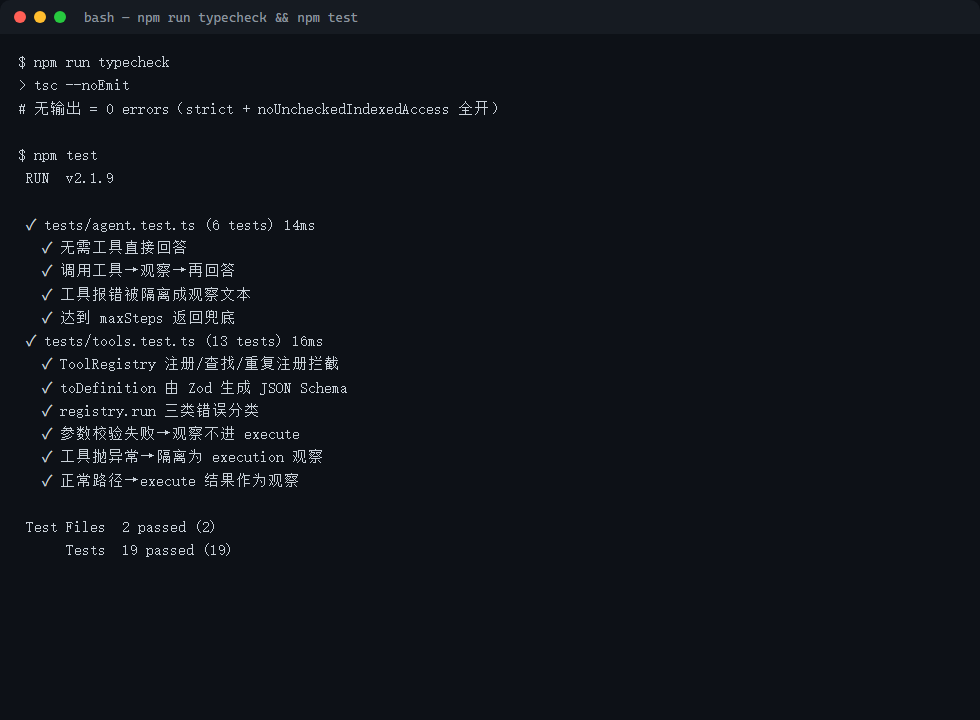
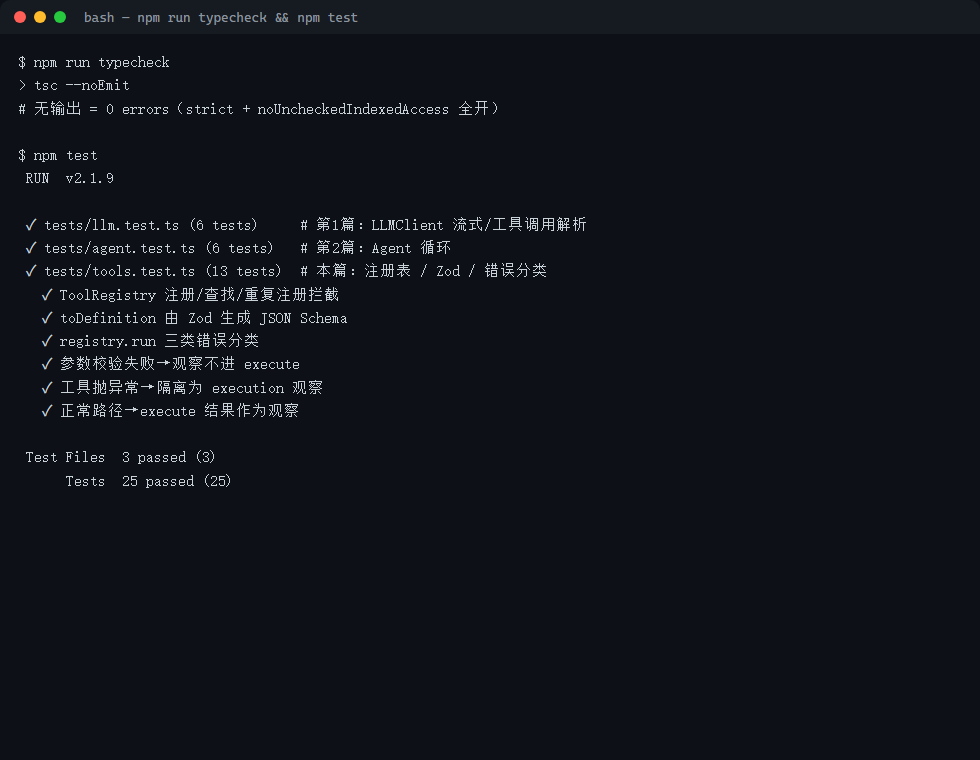
post-03: 修正博文验证计数（25 tests / 3 files）并同步验证配图

diff --git a/posts/03.md b/posts/03.md
@@ -319,7 +319,7 @@ npm run typecheck
 
 ![验证结果](assets/03-verify.png)
 
-1. **单元测试 19/19 通过**（`npm test`，2 个文件共 19 用例）。新增 `tests/tools.test.ts` 覆盖：注册表登记/查找/重复拦截、Zod→JSON Schema 转换（含 enum/array/optional/required）、`registry.run` 三类错误分类（not_found / validation / execution）、参数不合法时 `execute` 不被调用、工具抛异常被隔离。这一组证明工具系统逻辑正确，不依赖真实网络。
+1. **单元测试 25/25 通过**（`npm test`，3 个文件共 25 用例：第 1 篇 `llm.test.ts` 6 例、第 2 篇 `agent.test.ts` 6 例、本篇新增 `tools.test.ts` 13 例）。新增的 `tools.test.ts` 覆盖：注册表登记/查找/重复拦截、Zod→JSON Schema 转换（含 enum/array/optional/required）、`registry.run` 三类错误分类（not_found / validation / execution）、参数不合法时 `execute` 不被调用、工具抛异常被隔离。这一组证明工具系统逻辑正确，不依赖真实网络。
 2. **类型检查 0 errors**（`npm run typecheck`，`tsc --noEmit`，`strict` + `noUncheckedIndexedAccess` 全开）。`Tool<T>` 泛型让 `execute` 的入参在编译期就是 `{ expression: string }`，不是 `any`。
 3. **真实对话端到端跑通**（DeepSeek `deepseek-flash`，见下）：
 
